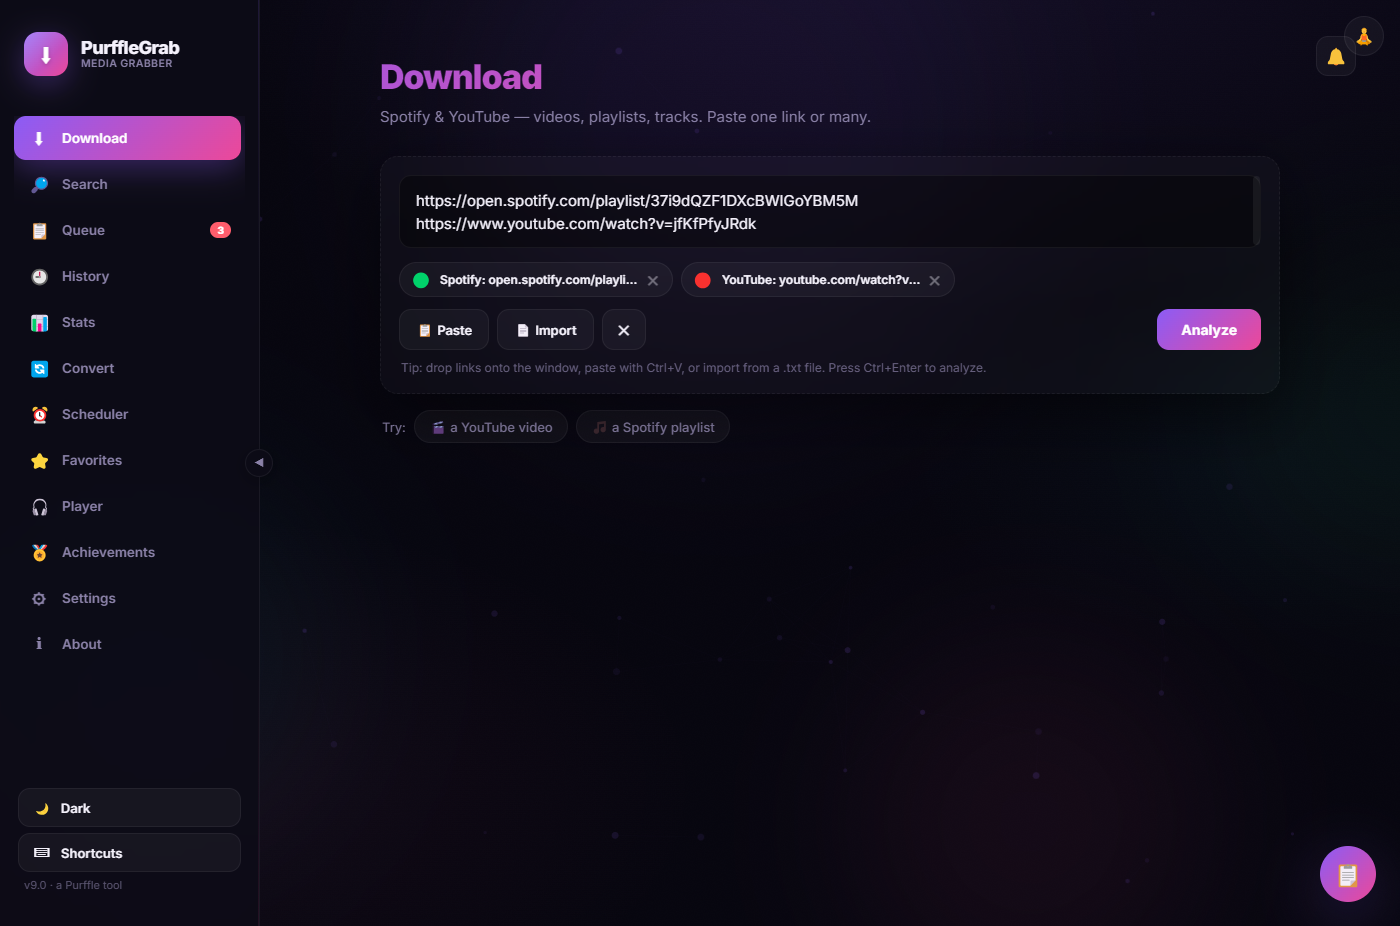
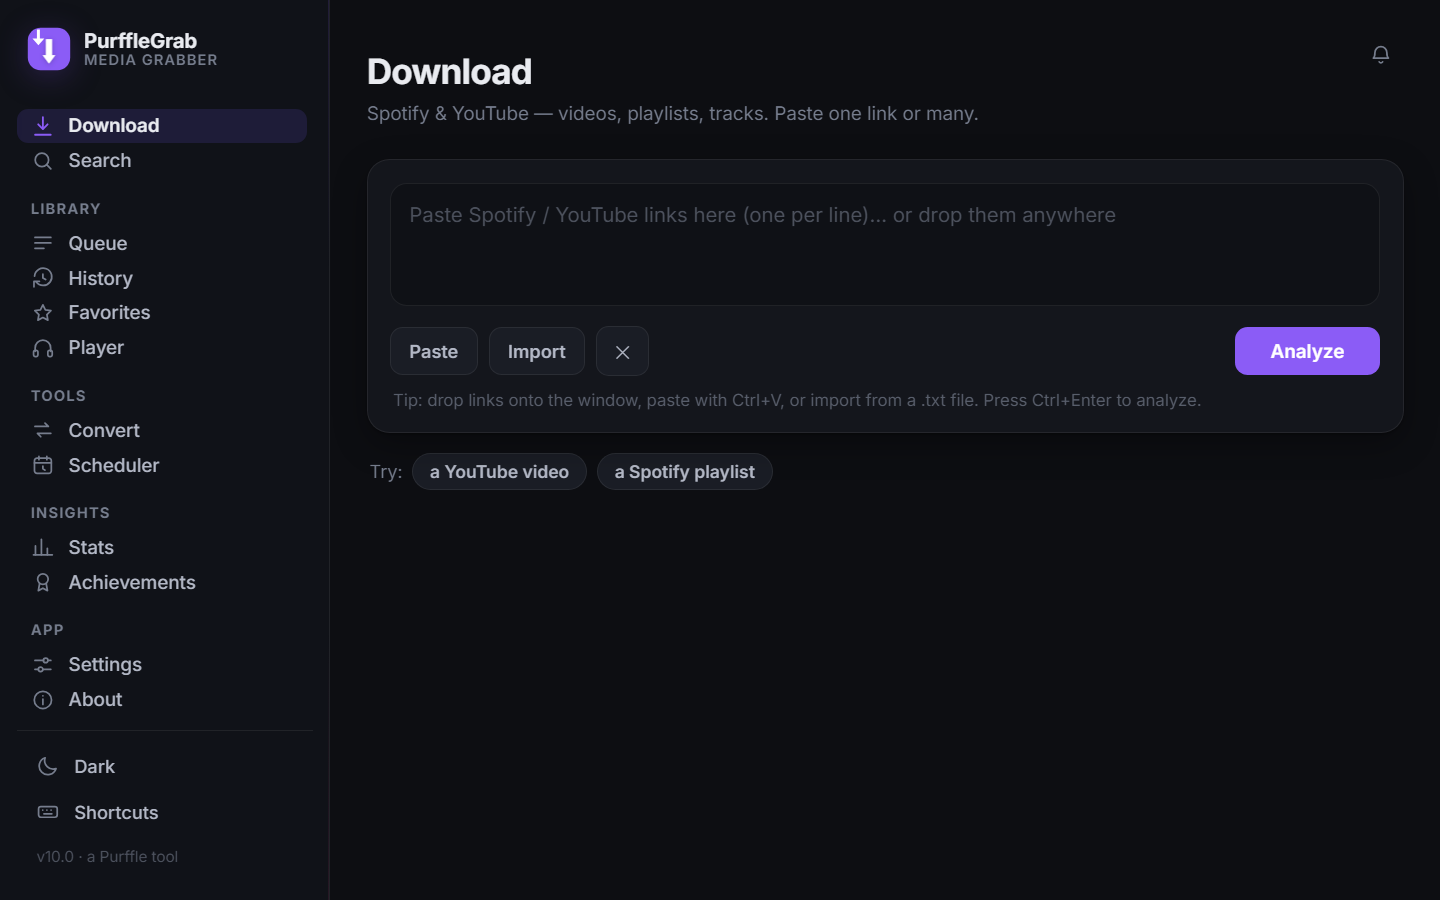
v11.0.0 — redesigned interface
The interface was rebuilt around one accent, a real icon set and neutral
surfaces. Screenshots replaced with six captures of the new UI; the previous
eight showed the old purple/pink build and no longer matched the app.

diff --git a/README.md b/README.md
@@ -71,14 +71,12 @@ and nothing extra to install: **FFmpeg** and the **yt-dlp** engine are bundled r
 ## 📸 Screenshots
 
 <div align="center">
-<img src="docs/screenshots/01-download-dark.png" width="49%" alt="PurffleGrab free YouTube downloader — paste Spotify and YouTube links, dark theme"/>
-<img src="docs/screenshots/02-playlist-dark.png" width="49%" alt="Download a Spotify playlist to MP3 with track picker and quality presets"/>
-<img src="docs/screenshots/03-search-dark.png" width="49%" alt="Search YouTube by name and download videos without a link"/>
-<img src="docs/screenshots/04-player-dark.png" width="49%" alt="Built-in audio player with music visualizer and 5-band equalizer"/>
-<img src="docs/screenshots/05-stats-dark.png" width="49%" alt="Download statistics dashboard with format breakdown and activity chart"/>
-<img src="docs/screenshots/06-achievements-dark.png" width="49%" alt="Achievement badges and 90-day download activity heatmap"/>
-<img src="docs/screenshots/07-converter-light.png" width="49%" alt="Convert audio and video files between MP3, FLAC, MP4 and more — light theme"/>
-<img src="docs/screenshots/08-settings-light.png" width="49%" alt="PurffleGrab settings — themes, accent colours and mood themes, light theme"/>
+<img src="docs/screenshots/01-download-dark.png" width="49%" alt="PurffleGrab free Spotify and YouTube downloader — paste links, dark theme"/>
+<img src="docs/screenshots/02-settings-dark.png" width="49%" alt="PurffleGrab settings — download folder, defaults, themes and accent colours"/>
+<img src="docs/screenshots/03-player-dark.png" width="49%" alt="Built-in audio player with five-band equaliser and visualiser"/>
+<img src="docs/screenshots/04-stats-dark.png" width="49%" alt="Download statistics with format breakdown and activity chart"/>
+<img src="docs/screenshots/05-queue-dark.png" width="49%" alt="Download queue with batch controls"/>
+<img src="docs/screenshots/06-download-light.png" width="49%" alt="PurffleGrab in the light theme"/>
 </div>
 
 ## 🚀 How to use
